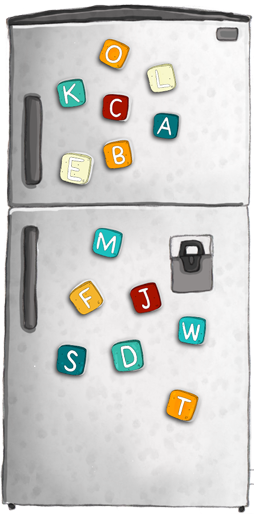
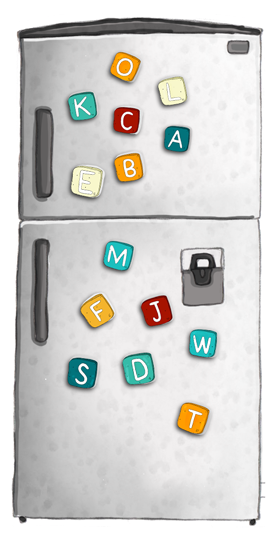
Elementos con borde blanco

diff --git a/Maquetacion/kitchen.html b/Maquetacion/kitchen.html
@@ -45,18 +45,20 @@
       <div class="menu animated fadeIn ">
         <span class="opt">Escoge un lugar de la casa: </span>
         <div class="exit opt"> </div>
-        <div class="bedroom opt"> </div>
-        <p class="opt bed">Cuarto </p>
-        <div class="kitchen opt"> </div>
-        <p class="opt kit">Cocina </p>
-        <div class="living opt"> </div>
-        <p class="opt liv">Sala</p>
-        <div class="dinning opt"> </div>
-        <p class="opt din">Comedor</p>
-        <div class="bathroom opt"> </div>
-        <p class="opt bath">Baño</p>
-        <div class="backyard opt"> </div>
-        <p class="opt back">Patio</p>
+        <div class="opt-container">
+          <div class="bedroom opt"> </div>
+          <p class="opt bed">Cuarto </p>
+          <div class="kitchen opt"> </div>
+          <p class="opt kit">Cocina </p>
+          <div class="living opt"> </div>
+          <p class="opt liv">Sala</p>
+          <div class="dinning opt"> </div>
+          <p class="opt din">Comedor</p>
+          <div class="bathroom opt"> </div>
+          <p class="opt bath">Baño</p>
+          <div class="backyard opt"> </div>
+          <p class="opt back">Patio</p>
+        </div>
 
 
 

diff --git a/Maquetacion/css/main.css b/Maquetacion/css/main.css
@@ -32,18 +32,18 @@
 /* line 2, ../sass/_kitchen.scss */
 .fridge {
   bottom: 103px;
-  right: 71px;
-  width: 253px;
-  height: 514px;
+  right: 57px;
+  width: 276px;
+  height: 540px;
   background-image: url("../img/kitchen-fridge.png");
 }
 
 /* line 10, ../sass/_kitchen.scss */
 .mixer {
-  bottom: 327px;
+  bottom: 321px;
   right: 415px;
-  width: 91px;
-  height: 100px;
+  width: 103px;
+  height: 113px;
   background-image: url("../img/kitchen-mixer.png");
 }
 
@@ -323,4 +323,10 @@
 /* line 256, ../sass/main.scss */
 .container .opt {
   position: absolute;
+}
+/* line 260, ../sass/main.scss */
+.container .opt-container {
+  width: 100%;
+  position: absolute;
+  top: 40px;
 }

diff --git a/Maquetacion/sass/_kitchen.scss b/Maquetacion/sass/_kitchen.scss
@@ -1,17 +1,17 @@
 
   .fridge{
     bottom:103px;
-    right:71px;
-    width:253px;
-    height: 514px;
+    right:57px;
+    width:276px;
+    height: 540px;
     background-image: url("../img/kitchen-fridge.png");
   }
 
   .mixer{
-    bottom:327px;
+    bottom:321px;
     right:415px;
-    width:91px;
-    height:100px;
+    width:103px;
+    height:113px;
     background-image: url("../img/kitchen-mixer.png");
   }
 

diff --git a/Maquetacion/sass/main.scss b/Maquetacion/sass/main.scss
@@ -256,4 +256,10 @@ $font-titles: 'quicksandbold';
   .opt{
     position: absolute;
   }
+
+  .opt-container{
+    width: 100%;
+    position: absolute;
+    top:40px;
+  }
 }
